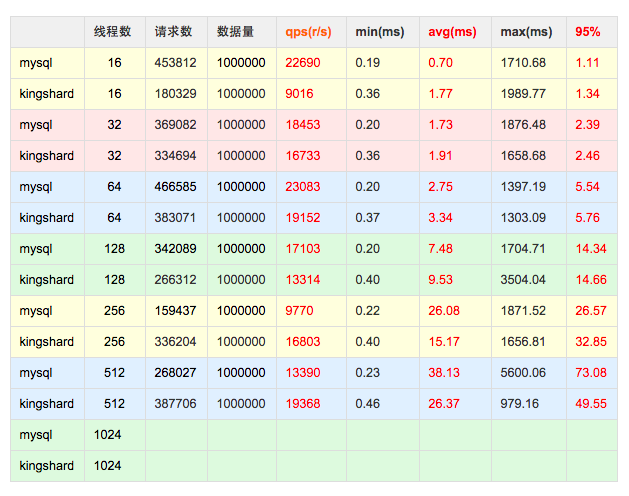
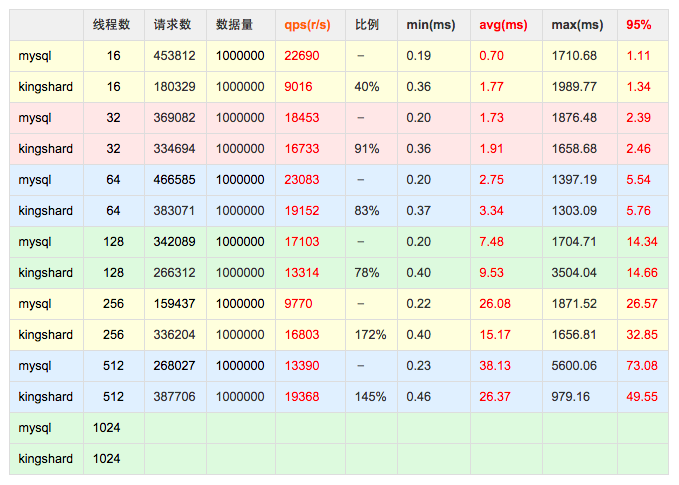
kingshard performance test

diff --git a/doc/KingDoc/kingshard_performance_test.md b/doc/KingDoc/kingshard_performance_test.md
@@ -30,8 +30,8 @@
 
 ![拓扑图](./kingshard_performance_test_resources/kingshard_performance_test_topology.png)
 
-有关kingshard系统安装与配置，请参考文档[安装kingshard](./kingshard_install_document.md)
-有关sysbench v0.5的安装与命令选项，请参考[sysbench](https://github.com/akopytov/sysbench)
+有关kingshard系统安装与配置，请参考文档[安装kingshard](./kingshard_install_document.md)。  
+有关sysbench v0.5的安装与命令选项，请参考[sysbench](https://github.com/akopytov/sysbench)。
 
 ## 4.测试过程
 执行下面的命令准备测试数据
@@ -65,9 +65,8 @@ CREATE TABLE `sbtest1` (
 ```
 
 ### 4.1 kingshard与直连DB性能比较
-利用sysbench测试通过kingshard转发SQL请求和直连DB发送SQL请求这两种情况下，
-kingshard和Mysql系统的两项数据指标：QPS和每条SQL请求平均处理时间。
-通过sysbench发送三类SQL请求：select，update，insert,场景分别为只读、读写4比1和只写。
+利用sysbench测试通过kingshard转发SQL请求和直连DB发送SQL请求这两种情况下，kingshard和Mysql系统的两项数据指标：**QP**S和每条**SQL请求平均处理时间**。  
+通过sysbench发送四类SQL请求：select、update、insert和delete，场景分别为只读、读写4比1和只写。
 
 #### 4.1.1 kingshard与直连DB只读比较
 
@@ -75,7 +74,7 @@ kingshard和Mysql系统的两项数据指标：QPS和每条SQL请求平均处理
 
 ```sh
 time sysbench --test=/data/home/test_user/software/sysbench/sysbench/tests/db/select.lua \
-              --mysql-host=bi-dbproxy03.ymt.io \
+              --mysql-host=host \
               --mysql-port=9696 \
               --mysql-user=kingshard \
               --mysql-password=kingshard \
@@ -89,17 +88,18 @@ time sysbench --test=/data/home/test_user/software/sysbench/sysbench/tests/db/se
               run
 ```
 
-利用sysbench测试了并发线程个数不同的情况下，分别执行最大请求次数为100w的 select操作,通过修改--num-threads可以获得不同并发线程数。
+利用sysbench测试了并发线程个数不同的情况下，分别执行最大请求次数为100w的 select操作,通过修改--num-threads可以获得不同并发线程数。  
 测试连接 kingshard 和直连 DB 这两种情况下的 QPS（**QPS越大，系统性能越好**），
 测试连接 kingshard 和直连 DB 这两种情况下的 执行sql平均时延（**时延越小，系统性能越好**），
 每组数据重复测试三次后取平均值，具体数据对比如下表所示：
 
 ![数据对比](./kingshard_performance_test_resources/只读-table.png)
 
-上表对应的折线图如下所示：
+上表对应的QPS折线图如下所示：
 
 ![QPS折线图](./kingshard_performance_test_resources/qps-只读.png)
 
+上表对应的时延折线图如下所示：
 
 ![时延折线图](./kingshard_performance_test_resources/时延-只读.png)
 
@@ -123,17 +123,18 @@ ysbench --test=/data/home/test_user/software/sysbench/sysbench/tests/db/oltp.lua
               run
 ```
 
-利用sysbench测试了并发线程个数不同的情况下，分别执行最大请求次数为100w的 select、update、insert等混合操作,通过修改--num-threads可以获得不同并发线程数。
+利用sysbench测试了并发线程个数不同的情况下，分别执行最大请求次数为100w的 select、update、insert、delete等混合操作,通过修改--num-threads可以获得不同并发线程数。  
 测试连接 kingshard 和直连 DB 这两种情况下的 QPS（**QPS越大，系统性能越好**），
 测试连接 kingshard 和直连 DB 这两种情况下的 执行sql平均时延（**时延越小，系统性能越好**），
 每组数据重复测试三次后取平均值，具体数据对比如下表所示：
 
 ![数据对比](./kingshard_performance_test_resources/读写4比1-table.png)
 
-上表对应的折线图如下所示：
+上表对应的QPS折线图如下所示：
 
 ![QPS折线图](./kingshard_performance_test_resources/qps-读写4比1.png)
 
+上表对应的时延折线图如下所示：
 
 ![时延折线图](./kingshard_performance_test_resources/时延-读写4比1.png)
 
@@ -157,53 +158,55 @@ time sysbench --test=/data/home/test_user/software/sysbench/sysbench/tests/db/in
               run
 ```
 
-利用sysbench测试了并发线程个数不同的情况下，分别执行最大请求次数为100w的 select、update、insert等混合操作,通过修改--num-threads可以获得不同并发线程数。
+利用sysbench测试了并发线程个数不同的情况下，分别执行最大请求次数为100w的insert操作,通过修改--num-threads可以获得不同并发线程数。  
 测试连接 kingshard 和直连 DB 这两种情况下的 QPS（**QPS越大，系统性能越好**），
 测试连接 kingshard 和直连 DB 这两种情况下的 执行sql平均时延（**时延越小，系统性能越好**），
 每组数据重复测试三次后取平均值，具体数据对比如下表所示：
 
 ![数据对比](./kingshard_performance_test_resources/只写-table.png)
 
-上表对应的折线图如下所示：
+上表对应的QPS折线图如下所示：
 
 ![QPS折线图](./kingshard_performance_test_resources/qps-只写.png)
 
+上表对应的时延折线图如下所示：
 
 ![时延折线图](./kingshard_performance_test_resources/时延-只写.png)
 
 
-**从表一可以看出，当sysbench的并发测试线程较少时，连接kingshard和直连DB的QPS差距较大。
+**从QPS折线图可以看出，当sysbench的并发测试线程较少时，连接kingshard和直连DB的QPS差距较大。
 这主要是因为当sysbench并发线程少时，kingshard的性能没有得到充分的发挥，
 sysbench只有很少的线程向kingshard发送请求，此时网络延迟对QPS的影响是最主要的。**
 
 **当sysbench的并发测试线程较大时，此时kingshard的性能就得到了充分的发挥，
-此时QPS的对比是连接kingshard与直连DB性能对比的真实的反应，网络延迟对QPS的影响作用就显得很小了。**
+QPS的对比是连接kingshard与直连DB性能对比的真实的反应，网络延迟对QPS的影响作用就显得很小了。**
 
-**从着几个表的数据来看，通过kingshard发送select请求时的QPS是直连DB时75%左右，
+**从以上几个表个的比例数据来看，通过kingshard转发select请求时的QPS是直连DB时80%左右，
 而update和insert请求对应的QPS则更高一些，相当于直连DB时的85%左右,甚至在并发更高的情况下直连mysql的性能低于通过kingshards转发的性能。
-由此看来利用kingshard转发SQL请求带来的性能下降虽有下降，但完全可以接受。**
+由此看来利用kingshard转发SQL请求带来的性能下降虽有下降，但完全可以接受，甚至高并发场景下kingshard的性能优于直连DB的性能**
 
-**测试过程中发现随着sysbench的并发测试线程数不断增大，mysql已经不能正常的建立连接，但是kingshard能够正常转发SQL请求，由此可以看出
-增加kingshard后，DB操作的并发性能有所提升，并对后端mysql构建了一个保护层。**
-
+**sysbench并发线程高于512的数据并没有给出，因为直连DB已经不能正常完成测试，但是kingshard可以完成。**
 
 ### 4.2 max_conns_limit参数对kingshard性能影响
 
 max_conns_limit 是 kingshard 初始化时创建的与后端mysql长连接个数，这个值设置的不同对 kingshard 性能也有比较明显的影响。
-我们猜测max_conns_limit除了与kingshard所在主机CPU核心数有关外还与后端mysql能接纳的连接数有关。
-我们分别测试将 max_conns_limit 设置为16、32、64、128、256、512时，kingshard转发select，update和insert三类操作请求时的 QPS ,
-SQL的混合情况为读写4比1，且sysbench的不同sql分处不同事务具体对比结果如下所述：
+我们猜测max_conns_limit除了与**kingshard所在主机CPU核心数**有关外还与**后端mysql能接纳的连接数**有关。
+我们分别测试将 max_conns_limit 设置为16、32、64、128、256、512时，kingshard转发select，update和insert三类操作请求时的 QPS，
+SQL的混合情况为读写4比1，且sysbench的不同sql分别处于不同的事务中，具体对比结果如下所述：
 
 
-上数测试对应的折线图如下所示：
+上数测试对应的QPS折线图如下所示：
 
 ![折线图](./kingshard_performance_test_resources/ks_conn.png)
 
 
 **从kingshard处理三类SQL操作的QPS对比来看，将max_conns_limit参数设置为128左右较为合理, 高于128后通过提高max_conns_limit值并没有显著效果。**
 
-**max_conns_limit参数值与kingshard所在主机核心数并没有必然的联系，与后端mysql主机可承受连接数关系密切**
+**max_conns_limit参数值与kingshard所在主机核心数并没有必然的联系，与后端mysql主机可承受连接数关系密切。**
 
 ## 5.测试结论
 
-本文主要测试了通过kingshard转发SQL请求与直连DB发送SQL请求这两种情形下的性能差距，和max_conns_limit值对kingshard的性能影响。从测试结果来看，kingshard性能表现较为优秀，并没有明显的性能下降。**同时在测试中发现kingshard系统属于CPU密集型任务，相对于磁盘IO和内存占用率而言，kingshard对CPU消耗显得最为明显，所以建议在部署kingshard的时候需要优先考虑服务器的CPU性能。**
+本文主要测试了通过kingshard转发SQL请求与直连DB发送SQL请求这两种情形下的性能差距，和max_conns_limit值对kingshard的性能影响。  
+ks的读写性能平均可以达到原生mysql性能的80%，一定条件下可以达到90%，随着并发数的增加甚至能超越mysql本身。  
+ks可以对mysql形成保护，增加了ks后，db层对外表现出可以接收更高的并发数，且执行时间长短不同的sql使用各自的资源，形成了资源隔离，mysql不会出现性能毛刺。  
+综合以上测试结果来看，kingshard性能表现较为优秀，并没有明显的性能下降。**同时在测试中发现kingshard系统属于CPU密集型任务，相对于磁盘IO和内存占用率而言，kingshard对CPU消耗显得最为明显，所以建议在部署kingshard的时候需要优先考虑服务器的CPU性能。**
